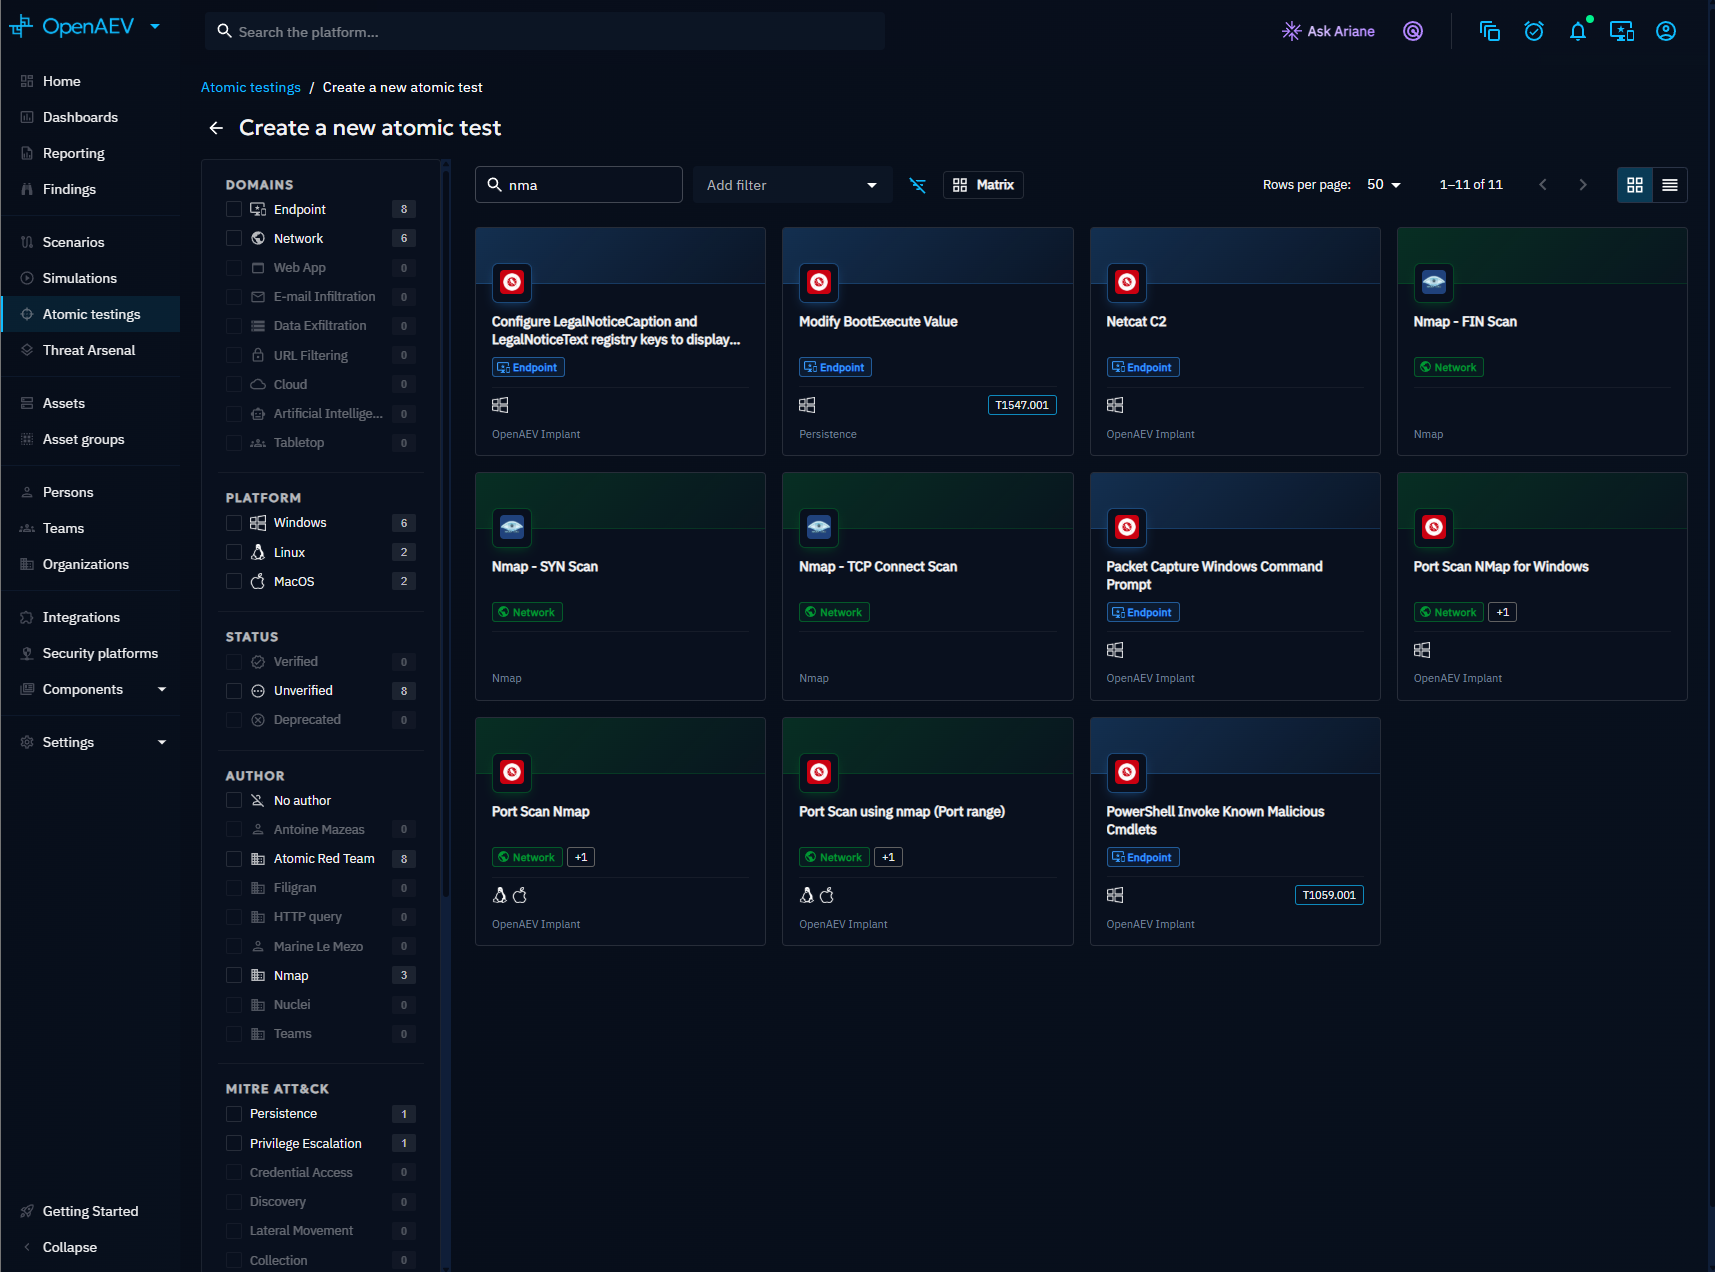
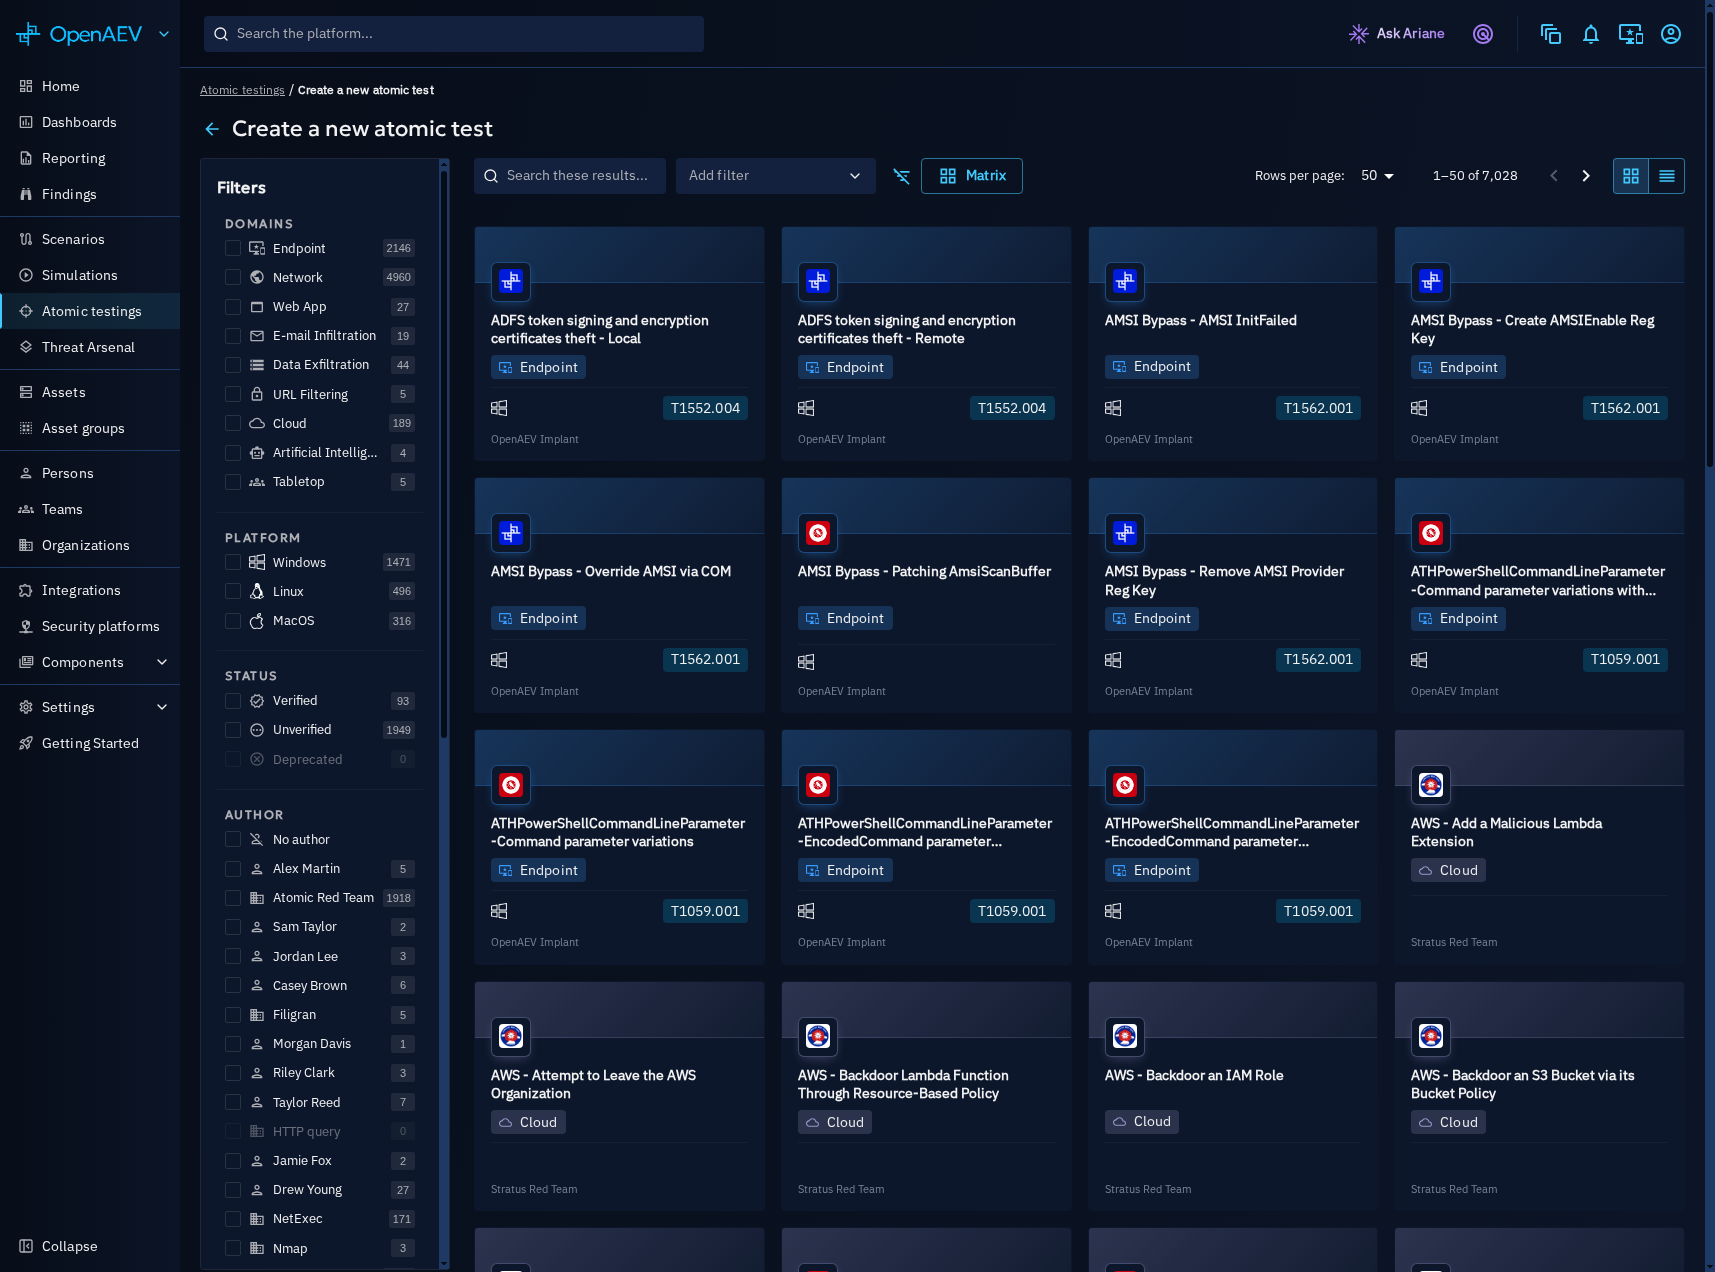
docs: fix documentation gaps
docs/docs/reference/deployment/configuration.md
docs/docs/usage/attack-chaining/autonomous/overview.md
docs/docs/deployment/integration-manager/quick-start.md
docs/docs/usage/run-and-evaluate/atomic-testing/atomic-testing.md
docs/docs/usage/run-and-evaluate/atomic-testing/assets/atomic-testing-create-select.png
docs/docs/usage/run-and-evaluate/atomic-testing/assets/atomic-testing-create-form.png

Generated-by: [OpenAEV] Doc maintainer agent

diff --git a/docs/docs/reference/deployment/configuration.md b/docs/docs/reference/deployment/configuration.md
@@ -176,6 +176,22 @@ The value in force is resolved in this order:
 | agent_queue_threshold              | openaev.agent.queue-threshold                | OPENAEV_AGENT_QUEUE_THRESHOLD                | 0       | 0 to 10000  | Pending jobs after which an agent is overloaded and skipped by new injects. `0` disables the check. |
 | agent_auto_update_enabled          | executor.openaev.agent.auto-update-enabled   | EXECUTOR_OPENAEV_AGENT_AUTO_UPDATE_ENABLED   | true    | true, false | When `false`, agents are not upgraded when a new platform version is deployed. Enterprise Edition only. |
 
+#### Expectations expiration manager
+
+The expectations expiration manager is a built-in collector. At a fixed interval, it sets the result of the expectations whose expiration time has passed and that no Collector or security platform filled.
+
+| Parameter                                         | Environment variable                              | Default value | Description |
+|:--------------------------------------------------|:--------------------------------------------------|:--------------|:------------|
+| collector.expectations-expiration-manager.enable     | COLLECTOR_EXPECTATIONS-EXPIRATION-MANAGER_ENABLE     | `true`        | Enables the expectations expiration manager. |
+| collector.expectations-expiration-manager.interval   | COLLECTOR_EXPECTATIONS-EXPIRATION-MANAGER_INTERVAL   | 60            | Interval in seconds between two runs. The first run starts 30 seconds after startup. |
+| collector.expectations-expiration-manager.batch-size | COLLECTOR_EXPECTATIONS-EXPIRATION-MANAGER_BATCH-SIZE | 1000          | Maximum number of expectations expired per run and per tenant. |
+
+#### Attack chaining
+
+| Parameter                        | Environment variable             | Default value | Description |
+|:---------------------------------|:---------------------------------|:--------------|:------------|
+| openaev.chaining.max-retry-count | OPENAEV_CHAINING_MAX-RETRY-COUNT | 5             | Maximum number of times a chaining event is re-queued after a failed transaction. Past this number, the event is not re-queued again. |
+
 {% if feature_visible("CREDENTIAL_ASSET") %}
 #### Credential status validation
 
@@ -310,6 +326,20 @@ Tuning parameters applicable to both engines:
 | engine.indexing-misfire-threshold-ms     | ENGINE_INDEXING_MISFIRE_THRESHOLD_MS     | 120000        | Threshold in milliseconds after which a model synchronisation is declared misfired and is rescheduled.                                                                                                                                                             |
 | engine.indexing-reset-epoch-reassert-delay-seconds | ENGINE_INDEXING_RESET_EPOCH_REASSERT_DELAY_SECONDS | 180 | Delay in seconds after which an instance that reset an index during a rolling deploy re-asserts the indexing cursor of that model, so a stale cursor written by an instance still running an older version does not skip rows. Must exceed the longest indexing round. Set to `0` to disable once every instance runs OpenAEV 3.261001.0 or later. |
 | engine.indexing-refeed-reassert-delay-seconds | ENGINE_INDEXING_REFEED_REASSERT_DELAY_SECONDS | 1800 | Delay in seconds after which the instance that applied an upgrade re-feeding an index in place (for example the findings index, to mask the sensitive values indexed before) re-feeds it a second time. During a rolling deploy, instances still running the previous version take part in the first re-feed and write their own documents, such as finding values in cleartext; the second re-feed rewrites them. Set it longer than your longest rolling deploy plus one indexing round (15 seconds). Set to `0` to skip the second re-feed, which is safe when a single instance runs. |
+| engine.connect-timeout-ms                | ENGINE_CONNECT_TIMEOUT_MS                | 5000          | Connect timeout of the engine client, in milliseconds. |
+| engine.socket-timeout-ms                 | ENGINE_SOCKET_TIMEOUT_MS                 | 60000         | Socket (response) timeout of the engine client, in milliseconds. |
+| engine.max-connections                   | ENGINE_MAX_CONNECTIONS                   | 40            | Maximum number of concurrent connections of the engine client. Applied to both the per-route and the total limit. |
+| engine.reject-unauthorized               | ENGINE_REJECT_UNAUTHORIZED               | `true`        | Verify the TLS certificate of the engine. Set to `false` to trust any certificate, for example a self-signed one. |
+| engine.indexing-batch-size               | ENGINE_INDEXING_BATCH_SIZE               | 500           | Maximum number of records fetched per indexing batch. |
+| engine.indexing-max-concurrent-models    | ENGINE_INDEXING_MAX_CONCURRENT_MODELS    | 3             | Maximum number of models whose indexing runs at the same time. Each indexing round holds a database connection, so a higher value uses more of the connection pool. Values below `1` are treated as `1`. |
+| engine.index-suffix                      | ENGINE_INDEX_SUFFIX                      | -000001       | Suffix of the first index of each rollover alias. |
+| engine.number-of-shards                  | ENGINE_NUMBER_OF_SHARDS                  | 1             | Number of primary shards of each index. Applied when an index is created. |
+| engine.number-of-replicas                | ENGINE_NUMBER_OF_REPLICAS                | 1             | Number of replica shards of each index. Applied when an index is created. |
+| engine.max-result-window                 | ENGINE_MAX_RESULT_WINDOW                 | 100000        | `max_result_window` setting of each index (maximum depth of pagination). Applied when an index is created. |
+| engine.max-fields-size                   | ENGINE_MAX_FIELDS_SIZE                   | 4096          | Maximum number of fields of an index mapping (`mapping.total_fields.limit`). Applied when an index is created. |
+| engine.max-primary-shard-docs            | ENGINE_MAX_PRIMARY_SHARD_DOCS            | 75000000      | Rollover condition of the index lifecycle policy: maximum number of documents in a primary shard. |
+| engine.max-primary-shards-size           | ENGINE_MAX_PRIMARY_SHARDS_SIZE           | 50Gb          | Rollover condition of the index lifecycle policy: maximum size of a primary shard. |
+| engine.search-cap                        | ENGINE_SEARCH_CAP                        | 500           | Maximum number of results a search across the platform indices returns. |
 
 !!! note "Re-feed of the Findings index after an upgrade"
 
@@ -349,6 +379,26 @@ Tuning parameters applicable to both engines:
 | openaev.rabbitmq.trust-store          | OPENAEV_RABBITMQ_TRUST_STORE          |                                   | Path to the p12 trust store (for example `file:/path/to/truststore.p12`) with the CA of the RabbitMQ server certificate. Used when SSL is on. When empty, the platform trust store applies: the JVM default trust store plus the certificates of `openaev.extra-trusted-certs-dir`. Applies to the AMQP connection. The calls to the management plugin trust this store and the platform trust store. |
 | openaev.rabbitmq.trust-store-password | OPENAEV_RABBITMQ_TRUST-STORE-PASSWORD |                                   | Password of the keystore                                                                                                                                                          |
 | openaev.rabbitmq.publish-timeout-ms   | OPENAEV_RABBITMQ_PUBLISH-TIMEOUT-MS   | 30000                             | Hard cap in milliseconds on a single publish, so a broker that stops answering cannot hold a database transaction open. Must be strictly positive, otherwise the default applies.  |
+
+##### Queue tuning
+
+Three batch queues can be tuned with `openaev.queue-config.<queue>.<parameter>` properties, set for example in `application.properties`:
+
+- `inject-trace`: execution traces reported for Injects.
+- `workflows-ready` and `workflows-update`: events of the attack chaining engine.
+
+| Parameter        | `inject-trace` default | `workflows-ready` default | `workflows-update` default | Description |
+|:-----------------|:-----------------------|:--------------------------|:---------------------------|:------------|
+| publisher-number | 2                      | 1                         | 1                          | Number of publisher channels. |
+| consumer-number  | 8                      | 1                         | 1                          | Number of consumer channels. |
+| worker-number    | 8                      | 1                         | 1                          | Number of worker threads that process the batches. Messages are spread over the workers by key. |
+| worker-frequency | 10000                  | 10000                     | 10000                      | Interval in milliseconds at which batches that did not reach `max-size` are processed. |
+| queue-name       | inject-trace           | workflows-ready           | workflows-update           | Name of the queue, exchange and routing key, prefixed with `openaev.rabbitmq.prefix`. |
+| max-size         | 200                    | 200                       | 200                        | Number of buffered messages per worker above which the batch is processed at once. |
+| consumer-qos     | 1000                   | 1000                      | 1000                       | Prefetch count of each consumer channel (`basic.qos`). |
+| publisher-qos    | 0                      | 0                         | 0                          | Prefetch count set on each publisher channel (`basic.qos`). |
+
+For example, `openaev.queue-config.inject-trace.worker-number=16` doubles the inject trace workers.
 
 #### S3 bucket
 

diff --git a/docs/docs/usage/run-and-evaluate/atomic-testing/atomic-testing.md b/docs/docs/usage/run-and-evaluate/atomic-testing/atomic-testing.md
@@ -18,13 +18,16 @@ Use the search bar and filters to narrow results.
 
 ## Create an Atomic Test
 
-1. Click the **+** button at the bottom right of the screen.
-2. On the left panel, browse the list of available Threat Arsenal Actions. Filter by kill chain phase, Injector, compatible platform, or MITRE ATT&CK tactic. Click the **ATT&CK** icon near the search bar to filter by a specific technique.
-3. Select an Action. The form on the right populates with a default title and a delay field (set to 0 for immediate execution).
+1. Click the **Create** button at the top right of the Atomic testing list. The **Create a new atomic test** page opens.
+2. Browse the Threat Arsenal Actions, shown as cards. Use the search bar, or the **Filters** panel on the left to narrow them by domain, platform, status, author, MITRE ATT&CK tactic or MITRE ATLAS tactic.
+3. Click an Action card. The **Create a new atomic test** drawer opens.
 
 ![Select a Threat Arsenal Action](assets/atomic-testing-create-select.png)
 
-4. Click **Inject content** to define the targeted Assets or Players, required configuration, and Expectations.
+4. Fill in the drawer:
+    - **General**: title (prefilled with the Action name), description and tags.
+    - **Inject data**: the targets of the Action (for example Assets or Asset groups) and the configuration it requires.
+    - **Inject expectations**: the Expectations used to score the test.
 
 ![Configure Inject content](assets/atomic-testing-create-form.png)
 

diff --git a/docs/docs/deployment/integration-manager/quick-start.md b/docs/docs/deployment/integration-manager/quick-start.md
@@ -51,6 +51,7 @@ Set configuration through environment variables:
 export COMPOSER_ENV=production
 export MANAGER__ID="my-manager-001"
 export MANAGER__CREDENTIALS_KEY_FILEPATH="/path/to/private_key_4096.pem"
+export OPENAEV__ENABLE=true
 export OPENAEV__URL="https://openaev.example.com"
 export OPENAEV__TOKEN="your-openaev-api-token"
 export OPENAEV__DAEMON__SELECTOR="kubernetes"
